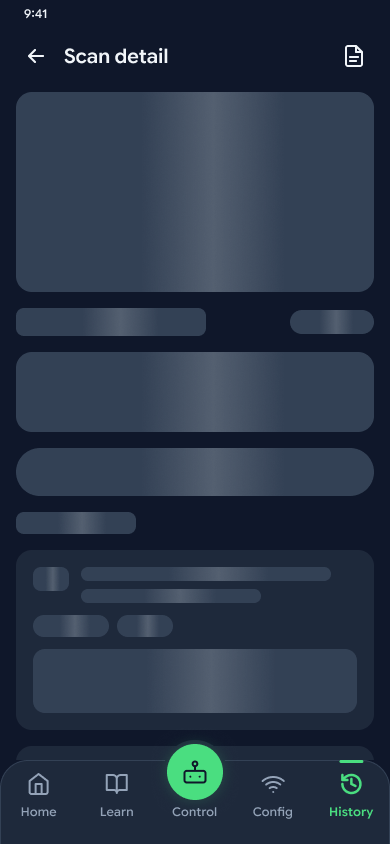
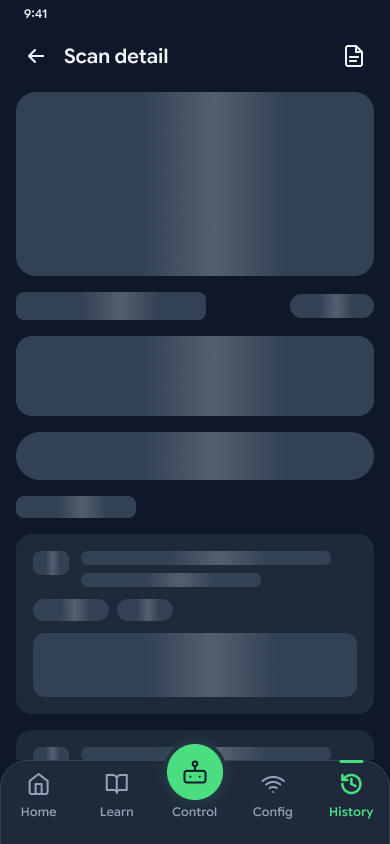
docs(design): H3 scan cards, uncropped photo frame and photo viewer
Claude-Session: https://claude.ai/code/session_01E7CoGBaVaXvV2kEKkvcAQW

Changed region(s): [[0.0308, 0.4621, 0.9538, 0.7701], [0.0308, 0.3081, 0.9846, 0.4313], [0.0923, 0.8009, 0.9231, 0.9242]]

diff --git a/docs/design/h3-figma/README.md b/docs/design/h3-figma/README.md
@@ -8,16 +8,17 @@ Figma copy is English; the app shows the Indonesian strings from decision 0184.
 
 | File | Figma node (light / dark) |
 | --- | --- |
-| 01 History list | 435:2395 / 454:4480 |
-| 02 Scan detail | 435:2581 / 454:4505 |
-| 03 Loading list | 435:2781 / 454:4525 |
-| 04 Loading detail | 435:2936 / 454:4576 |
+| 01 History list | 435:2395 / 520:7486 |
+| 02 Scan detail | 435:2581 / 520:6055 |
+| 03 Loading list | 435:2781 / 520:6074 |
+| 04 Loading detail | 435:2936 / 520:6116 |
 | 05 Empty | 435:3060 / 436:3649 |
 | 06 Explanation | 439:3603 / 459:5288 |
 | 07 Explanation, reading aloud | 439:3764 / 459:5355 |
 | 08 Export this question sheet | 459:5039 / 459:5422 |
 | 09 Explanation loading | 439:4165 / 459:5529 |
 | 10 Explanation, correct answer | 460:5171 / 460:5436 |
+| 11 Photo viewer (one dark screen for both modes) | 520:5626 |
 
 ## Type (font: Google Sans Flex; code: Google Sans Code)
 
@@ -65,13 +66,34 @@ Figma copy is English; the app shows the Indonesian strings from decision 0184.
   success = `chip/success-*` + `primary/text`; error = `chip/error-*` + `error/text`;
   warning = `chip/warning-*` + `warning/text`; info = `chip/info-*` + `info/text`; neutral = `raised` + `text/secondary`.
 - **Section header**: the existing Learn section header (title Subhead, action Button `primary/text`).
-- **Scan row** 358 wide, pad 12, gap 12, r16, `surface` + `border/subtle`, centred vertically.
-  Photo 64x64 r12 tinted by category: `chip/success-bg` (daur ulang), `chip/error-bg` (B3), `chip/warning-bg`
-  (organik); the saved crop cover-fits it; bin icon 40 only when there is no photo.
-  Info column gap 4: title Body `text/primary` (wraps), category chip, meta Caption `text/secondary` (wraps).
-  Right: trophy pill pad 4/10/4/8, gap 4, r full, `chip/warning-bg` + `chip/warning-border`,
-  trophy 16 + "+n" Button `warning/text`. Rows gap 12.
-- **Scan detail**: photo 358x200 r16 tinted by category (as the scan row); title Headline + category chip
+- **Scan card** (replaces the scan row; like the reference's course cards): 2-column grid, gap 12, cards fill
+  half the width, rows 12 apart; a lone last card keeps half width. Card pad 8/8/12/8, gap 8, r20,
+  `surface` + `border/subtle`. All cards in a list are the same height (title slot is always 2 lines).
+  - Cover 116 high, r16, clipped, tinted by category (`chip/success-bg` daur ulang, `chip/error-bg` B3,
+    `chip/warning-bg` organik); a 110 circle of the category border colour at 35 % top-right; three sparkles
+    (14, 10, 8) in the category text colour.
+  - The scan photo as a **polaroid**: `surface` frame pad 4 r8 with a soft shadow (0/4/10, #0F172A 14 %),
+    rotated -4 degrees, image about 104x58 shown **contain (BoxFit.contain), never cropped**, letterboxed on
+    `raised`. Category sticker bottom-left (pad 3/8, r full, `surface`, shadow, 8 dot + Caption in the category
+    text colour); trophy pill top-right (`warning/text` fill, trophy 14 + "+n" Caption in `surface`).
+  - Text pad 0/4: meta Caption `text/secondary` ("23:29 · 3 soal"), title Body `text/primary`, max 2 lines,
+    ellipsis, fixed 2-line height.
+  - Score row: 6 high track r full `raised`, fill `primary/fill` = correct/total of the record (hidden at 0),
+    "2/3" Caption `text/primary`.
+  - "Lihat hasil" button 36 high r full `primary/fill`, Button `primary/on-fill` + chevron 16. The whole card
+    is also tappable (one target: the card).
+- **Scan photo frame** (Scan detail; replaces the big cropped photo) 358x184, r20, clipped, category tint,
+  two blobs of the category border colour at 30 %, four sparkles. The photo is a polaroid (pad 4,
+  r8, shadow, rotated -3 degrees) about 224x126, **contain, never cropped**. Time pill top-left
+  (clock 14 + Caption). Fullscreen button bottom-right: 44 visual / 48 dp target, `surface` circle, shadow,
+  expand icon 20 `text/primary`. Tapping the photo or the button opens the photo viewer.
+- **Photo viewer** (frame 11): full-screen route, near-black background #05080F in both modes (fixed colour,
+  allowed), status inset, top bar 64: close 48 dp (X 22), title Subhead + Caption "Dipindai hari ini 23:29 ·
+  Daur ulang", share 48 dp. The photo fills the width with BoxFit.contain, centred; InteractiveViewer pinch
+  zoom 1x to 4x, double-tap toggles 1x/2.5x, swipe down to close. Hint pill at the bottom ("Cubit untuk zoom ·
+  ketuk dua kali untuk reset") fades after 2 s. Hero animation from the detail photo. Accessible labels on
+  close/share.
+- **Scan detail**: scan photo frame (above); title Headline + category chip
   (row gap 12); result stats; difficulty tabs; "Soal" section header WITHOUT an action; question cards gap 12.
   No separate scan-time line and no big score card. The only PDF export on this screen is the file icon
   button in the top bar (whole record, existing QuizPdfService).
@@ -143,6 +165,7 @@ Figma copy is English; the app shows the Indonesian strings from decision 0184.
   ("Bagikan" outline with share icon, "Simpan PDF" primary with file icon).
 - **Skeleton block**: `border/medium` (full opacity) with a white shimmer band (peak 16 % alpha), radii as the real element.
   Skeleton layouts mirror the real cards (see 03, 04, 09): explanation = hero block 176 r20, question card,
-  two 64 r16 answer blocks, a learn card skeleton; list hero block r20 164 high, 2x2 tile blocks 96 high,
+  two 64 r16 answer blocks, a learn card skeleton; list = hero block r20 164 high, 2-column skeleton cards
+  (116 cover, 2 lines, bar, 36 button); detail photo block 184 r20; 2x2 tile blocks 96 high,
   stats block 80 high r16, tabs block 48 high r full.
 - **Empty**: illustration 240x180, title Subhead, body Body Small `text/secondary` 280 wide centred, primary pill button.
